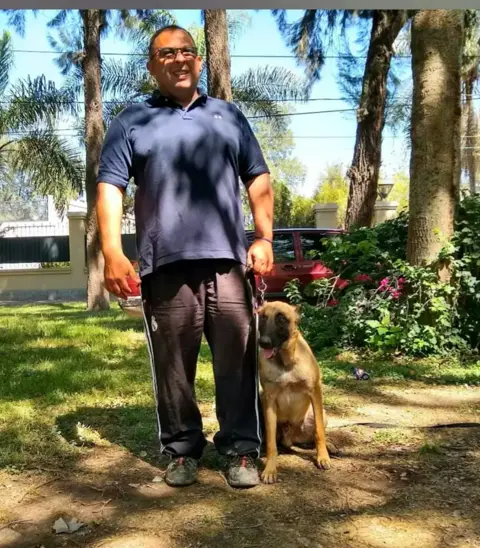
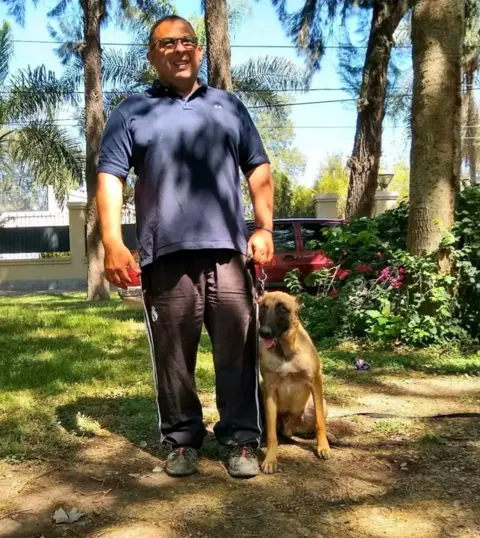
Portada sobre Claudio, perros de todas las razas y fotos nuevas
- Portada: su nombre como título, retrato con el Malinois y presentación en primera persona
  (pedido de Claudio, tomando como referencia vicenteferre.com).
- Escuela: nueva sección "Perros de todas las razas" con 8 fotos que mandó Claudio.
- Traslados: suma la foto del beagle en el auto.
- "Hola, soy Claudio" pasa a la foto de él con el cachorro (sin la franja gris de arriba).

diff --git a/index.html b/index.html
@@ -44,14 +44,14 @@
   <path d="M6 12.5V16a6 3 0 0 0 12 0v-3.5" /></symbol><symbol id="i-house" viewBox="0 0 24 24"><path d="M15 21v-8a1 1 0 0 0-1-1h-4a1 1 0 0 0-1 1v8" />
   <path d="M3 10a2 2 0 0 1 .709-1.528l7-5.999a2 2 0 0 1 2.582 0l7 5.999A2 2 0 0 1 21 10v9a2 2 0 0 1-2 2H5a2 2 0 0 1-2-2z" /></symbol><symbol id="i-instagram" viewBox="0 0 24 24"><rect width="20" height="20" x="2" y="2" rx="5" ry="5" />
   <path d="M16 11.37A4 4 0 1 1 12.63 8 4 4 0 0 1 16 11.37z" />
-  <line x1="17.5" x2="17.51" y1="6.5" y2="6.5" /></symbol><symbol id="i-layout-grid" viewBox="0 0 24 24"><rect width="7" height="7" x="3" y="3" rx="1" />
-  <rect width="7" height="7" x="14" y="3" rx="1" />
-  <rect width="7" height="7" x="14" y="14" rx="1" />
-  <rect width="7" height="7" x="3" y="14" rx="1" /></symbol><symbol id="i-map-pin" viewBox="0 0 24 24"><path d="M20 10c0 4.993-5.539 10.193-7.399 11.799a1 1 0 0 1-1.202 0C9.539 20.193 4 14.993 4 10a8 8 0 0 1 16 0" />
+  <line x1="17.5" x2="17.51" y1="6.5" y2="6.5" /></symbol><symbol id="i-map-pin" viewBox="0 0 24 24"><path d="M20 10c0 4.993-5.539 10.193-7.399 11.799a1 1 0 0 1-1.202 0C9.539 20.193 4 14.993 4 10a8 8 0 0 1 16 0" />
   <circle cx="12" cy="10" r="3" /></symbol><symbol id="i-menu" viewBox="0 0 24 24"><line x1="4" x2="20" y1="12" y2="12" />
   <line x1="4" x2="20" y1="6" y2="6" />
   <line x1="4" x2="20" y1="18" y2="18" /></symbol><symbol id="i-message-circle" viewBox="0 0 24 24"><path d="M7.9 20A9 9 0 1 0 4 16.1L2 22Z" /></symbol><symbol id="i-navigation" viewBox="0 0 24 24"><polygon points="3 11 22 2 13 21 11 13 3 11" /></symbol><symbol id="i-pause" viewBox="0 0 24 24"><rect x="14" y="4" width="4" height="16" rx="1" />
-  <rect x="6" y="4" width="4" height="16" rx="1" /></symbol><symbol id="i-phone" viewBox="0 0 24 24"><path d="M22 16.92v3a2 2 0 0 1-2.18 2 19.79 19.79 0 0 1-8.63-3.07 19.5 19.5 0 0 1-6-6 19.79 19.79 0 0 1-3.07-8.67A2 2 0 0 1 4.11 2h3a2 2 0 0 1 2 1.72 12.84 12.84 0 0 0 .7 2.81 2 2 0 0 1-.45 2.11L8.09 9.91a16 16 0 0 0 6 6l1.27-1.27a2 2 0 0 1 2.11-.45 12.84 12.84 0 0 0 2.81.7A2 2 0 0 1 22 16.92z" /></symbol><symbol id="i-shopping-bag" viewBox="0 0 24 24"><path d="M6 2 3 6v14a2 2 0 0 0 2 2h14a2 2 0 0 0 2-2V6l-3-4Z" />
+  <rect x="6" y="4" width="4" height="16" rx="1" /></symbol><symbol id="i-paw-print" viewBox="0 0 24 24"><circle cx="11" cy="4" r="2" />
+  <circle cx="18" cy="8" r="2" />
+  <circle cx="20" cy="16" r="2" />
+  <path d="M9 10a5 5 0 0 1 5 5v3.5a3.5 3.5 0 0 1-6.84 1.045Q6.52 17.48 4.46 16.84A3.5 3.5 0 0 1 5.5 10Z" /></symbol><symbol id="i-phone" viewBox="0 0 24 24"><path d="M22 16.92v3a2 2 0 0 1-2.18 2 19.79 19.79 0 0 1-8.63-3.07 19.5 19.5 0 0 1-6-6 19.79 19.79 0 0 1-3.07-8.67A2 2 0 0 1 4.11 2h3a2 2 0 0 1 2 1.72 12.84 12.84 0 0 0 .7 2.81 2 2 0 0 1-.45 2.11L8.09 9.91a16 16 0 0 0 6 6l1.27-1.27a2 2 0 0 1 2.11-.45 12.84 12.84 0 0 0 2.81.7A2 2 0 0 1 22 16.92z" /></symbol><symbol id="i-shopping-bag" viewBox="0 0 24 24"><path d="M6 2 3 6v14a2 2 0 0 0 2 2h14a2 2 0 0 0 2-2V6l-3-4Z" />
   <path d="M3 6h18" />
   <path d="M16 10a4 4 0 0 1-8 0" /></symbol><symbol id="i-snowflake" viewBox="0 0 24 24"><path d="m10 20-1.25-2.5L6 18" />
   <path d="M10 4 8.75 6.5 6 6" />
@@ -78,7 +78,7 @@
   <circle cx="7" cy="18" r="2" /></symbol><symbol id="i-video" viewBox="0 0 24 24"><path d="m16 13 5.223 3.482a.5.5 0 0 0 .777-.416V7.87a.5.5 0 0 0-.752-.432L16 10.5" />
   <rect x="2" y="6" width="14" height="12" rx="2" /></symbol><symbol id="i-x" viewBox="0 0 24 24"><path d="M18 6 6 18" />
   <path d="m6 6 12 12" /></symbol></defs></svg>
-<div class="aviso-maqueta">Vista previa para revisar con Claudio. Las fotos son de su Instagram.</div>
+<div class="aviso-maqueta">Vista previa para revisar con Claudio. Las fotos son suyas: de su Instagram y las que nos mandó.</div>
 <header class="barra"><div class="contenedor">
   <a class="marca" href="index.html" aria-label="Claudio Basualdo, inicio"><svg class="emb" aria-hidden="true"><use href="#emblema"/></svg><span><b>Claudio Basualdo</b><small>Servicios caninos integrales</small></span></a>
   <nav class="menu" id="menu" aria-label="Menú principal"><a href="adiestramiento-canino.html">Escuela</a><a href="guarderia-y-hotel-canino.html">Hotel y guardería</a><a href="peluqueria-canina.html">Spa</a><a href="traslado-de-mascotas.html">Traslados</a><a href="asesoria-canina-online.html">Asesoría</a><a href="index.html#claudio">Sobre Claudio</a><a href="index.html#contacto">Contacto</a></nav>
@@ -89,15 +89,16 @@
 
 <section class="portada" data-secuencia aria-label="Presentación">
   <div class="texto">
-    <p class="lugar">Claudio Basualdo, en Santiago del Estero desde hace más de 30 años</p>
-    <h1 class="verbos"><span>Cuidar.</span><span>Educar.</span><span>Acompañar.</span></h1>
-    <p class="bajada">Adiestramiento, educación y alojamiento para perros, con atención personalizada. Recibimos perros de toda la provincia y del norte del país, en un espacio cuidado y con trabajo responsable.</p>
+    <p class="lugar">Instructor de adiestramiento y educación canina en Santiago del Estero</p>
+    <h1 class="nombre">Claudio Basualdo</h1>
+    <p class="verbos"><span>Educar.</span> <span>Cuidar.</span> <span>Acompañar.</span></p>
+    <p class="bajada">Hace unos 30 años que educo perros de todas las razas y acompaño a sus familias. Hoy, junto a mi equipo, también los cuidamos en el hotel y la guardería, y los atendemos en el spa y en sus traslados.</p>
     <div class="acciones">
-      <a class="btn btn-oro" href="#servicios"><svg class="ic" aria-hidden="true"><use href="#i-layout-grid"/></svg>Ver los servicios</a>
-      <a class="btn btn-linea" href="https://wa.me/5493855854222?text=Hola%2C%20Claudio.%20Te%20escribo%20desde%20tu%20p%C3%A1gina." target="_blank" rel="noopener"><svg class="ic" aria-hidden="true"><use href="#i-message-circle"/></svg>Escribir por WhatsApp</a>
+      <a class="btn btn-oro" href="#claudio"><svg class="ic" aria-hidden="true"><use href="#i-paw-print"/></svg>Conocé mi historia</a>
+      <a class="btn btn-linea" href="https://wa.me/5493855854222?text=Hola%2C%20Claudio.%20Te%20escribo%20desde%20tu%20p%C3%A1gina." target="_blank" rel="noopener"><svg class="ic" aria-hidden="true"><use href="#i-message-circle"/></svg>Escribime por WhatsApp</a>
     </div>
   </div>
-  <div class="fotos"><img class="activa" src="img/guarderia-kiara-claudio-960.webp" srcset="img/guarderia-kiara-claudio-480.webp 480w, img/guarderia-kiara-claudio-960.webp 960w, img/guarderia-kiara-claudio-1600.webp 1600w" sizes="100vw" alt="Claudio Basualdo con Kiara en el predio" loading="eager" decoding="async" fetchpriority="high" style="object-position:center 45%"><img data-src="img/adiestramiento-simba-960.webp" data-srcset="img/adiestramiento-simba-480.webp 480w, img/adiestramiento-simba-960.webp 960w, img/adiestramiento-simba-1600.webp 1600w" sizes="100vw" alt="Claudio entrenando a Simba" decoding="async" style="object-position:center 30%"><img data-src="img/traslado-camioneta-960.webp" data-srcset="img/traslado-camioneta-480.webp 480w, img/traslado-camioneta-960.webp 960w, img/traslado-camioneta-1600.webp 1600w" sizes="100vw" alt="Un perro listo para su traslado" decoding="async" style="object-position:center 35%">
+  <div class="fotos"><img class="activa" src="img/claudio-basualdo-malinois-960.webp" srcset="img/claudio-basualdo-malinois-480.webp 480w, img/claudio-basualdo-malinois-960.webp 960w, img/claudio-basualdo-malinois-1600.webp 1600w" sizes="(max-width: 980px) 100vw, 50vw" alt="Claudio Basualdo, instructor de adiestramiento y educación canina, con un Malinois" loading="eager" decoding="async" fetchpriority="high" style="object-position:center 40%">
     <button class="pausa" type="button" aria-label="Detener la animación" hidden><svg class="ic" aria-hidden="true"><use href="#i-pause"/></svg></button>
   </div>
 </section>
@@ -111,7 +112,7 @@
 
 <section class="seccion" id="servicios"><div class="contenedor">
   <div class="cabeza-sec"><h2>Todo lo que tu perro necesita, en un solo lugar</h2>
-    <p>Cada perro tiene sus propias necesidades. Comprenderlo es el primer paso para cuidarlo y educarlo.</p></div>
+    <p>Adiestramiento, educación y alojamiento con atención personalizada. Recibimos perros de toda la provincia y del norte del país, en un espacio cuidado y con trabajo responsable.</p></div>
   <div class="mosaico"><a class="pieza p-escuela" href="adiestramiento-canino.html">
       <img src="img/adiestramiento-simba-960.webp" srcset="img/adiestramiento-simba-480.webp 480w, img/adiestramiento-simba-960.webp 960w, img/adiestramiento-simba-1600.webp 1600w" sizes="(max-width: 600px) 100vw, 50vw" alt="" loading="lazy" decoding="async" style="object-position:center 25%;view-transition-name:foto-adiestramiento-canino">
       <div class="tx"><h3><svg class="ic" aria-hidden="true"><use href="#i-graduation-cap"/></svg>Escuela canina</h3><p>Educación, adiestramiento y comportamiento. Trabajamos junto a la familia.</p></div></a><a class="pieza p-guarderia" href="guarderia-y-hotel-canino.html">
@@ -129,7 +130,7 @@
 
 <!-- Sección pedida por Claudio (16/11), con su texto apenas retocado: en primera persona y sin sonar ostentoso. -->
 <section class="seccion suave" id="claudio"><div class="contenedor dos sobre-claudio">
-  <figure class="retrato"><img src="img/claudio-basualdo-malinois-960.webp" srcset="img/claudio-basualdo-malinois-480.webp 480w, img/claudio-basualdo-malinois-960.webp 960w" sizes="(max-width: 980px) 100vw, 560px" alt="Claudio Basualdo con uno de sus perros" loading="lazy" decoding="async" style="object-position:center"></figure>
+  <figure class="retrato"><img src="img/claudio-basualdo-960.webp" srcset="img/claudio-basualdo-480.webp 480w, img/claudio-basualdo-960.webp 960w" sizes="(max-width: 980px) 100vw, 560px" alt="Claudio Basualdo con uno de sus alumnos" loading="lazy" decoding="async" style="object-position:center 30%"></figure>
   <div class="texto-largo">
     <h2>Hola, soy Claudio</h2>
     <p class="oficio">Instructor de adiestramiento y educación canina. Trabajo con perros de todas las razas.</p>

diff --git a/adiestramiento-canino.html b/adiestramiento-canino.html
@@ -51,7 +51,7 @@
   <circle cx="7" cy="18" r="2" /></symbol><symbol id="i-video" viewBox="0 0 24 24"><path d="m16 13 5.223 3.482a.5.5 0 0 0 .777-.416V7.87a.5.5 0 0 0-.752-.432L16 10.5" />
   <rect x="2" y="6" width="14" height="12" rx="2" /></symbol><symbol id="i-x" viewBox="0 0 24 24"><path d="M18 6 6 18" />
   <path d="m6 6 12 12" /></symbol></defs></svg>
-<div class="aviso-maqueta">Vista previa para revisar con Claudio. Las fotos son de su Instagram.</div>
+<div class="aviso-maqueta">Vista previa para revisar con Claudio. Las fotos son suyas: de su Instagram y las que nos mandó.</div>
 <header class="barra"><div class="contenedor">
   <a class="marca" href="index.html" aria-label="Claudio Basualdo, inicio"><svg class="emb" aria-hidden="true"><use href="#emblema"/></svg><span><b>Claudio Basualdo</b><small>Servicios caninos integrales</small></span></a>
   <nav class="menu" id="menu" aria-label="Menú principal"><a href="adiestramiento-canino.html" aria-current="page">Escuela</a><a href="guarderia-y-hotel-canino.html">Hotel y guardería</a><a href="peluqueria-canina.html">Spa</a><a href="traslado-de-mascotas.html">Traslados</a><a href="asesoria-canina-online.html">Asesoría</a><a href="index.html#claudio">Sobre Claudio</a><a href="index.html#contacto">Contacto</a></nav>
@@ -96,6 +96,12 @@
     <ol class="etapas"><li class="etapa"><span class="n" aria-hidden="true">1</span><span class="tramo" aria-hidden="true"></span><h3>Nos conocemos</h3><p>Vemos a tu perro, escuchamos lo que te preocupa y buscamos qué origina cada conducta. Con eso armamos el plan.</p></li><li class="etapa"><span class="n" aria-hidden="true">2</span><span class="tramo" aria-hidden="true"></span><h3>Obediencia básica</h3><p>Sentado, quieto, ven y junto, con juegos de obediencia. Tu perro aprende a escucharte.</p></li><li class="etapa"><span class="n" aria-hidden="true">3</span><span class="tramo" aria-hidden="true"></span><h3>Manejo con correa</h3><p>Paseos tranquilos, sin tirones, en la vereda y en la calle.</p></li><li class="etapa"><span class="n" aria-hidden="true">4</span><span class="tramo" aria-hidden="true"></span><h3>Sociabilización</h3><p>Convivir sin problemas con otros perros y con las personas.</p></li><li class="etapa"><span class="n" aria-hidden="true">5</span><span class="tramo" aria-hidden="true"></span><h3>Las malas costumbres</h3><p>Trabajamos lo que más te preocupa: ansiedad, destrozos, ladridos o reactividad.</p></li><li class="etapa"><span class="n" aria-hidden="true">6</span><span class="tramo" aria-hidden="true"></span><h3>Curso amo-can</h3><p>La familia aprende los métodos para sostener lo aprendido. Te acompañamos en cada etapa.</p></li></ol>
     <p class="nota-maqueta">Etapas propuestas con lo que Claudio contó en sus entrevistas. Las ajustamos con él.</p>
   </div>
+</div></section>
+
+<section class="seccion suave"><div class="contenedor">
+  <div class="cabeza-sec"><h2>Perros de todas las razas</h2><p>Chicos o grandes, cachorros o adultos: cada uno aprende a su ritmo. Estos son algunos de los perros que pasaron por la escuela.</p></div>
+  <div class="alumnos"><figure><img src="img/alumno-doberman-960.webp" srcset="img/alumno-doberman-480.webp 480w, img/alumno-doberman-960.webp 960w" sizes="(max-width: 600px) 50vw, 25vw" alt="Dóberman" loading="lazy" decoding="async" style="object-position:center 30%"><figcaption>Dóberman</figcaption></figure><figure><img src="img/alumno-pastor-aleman-cerca-960.webp" srcset="img/alumno-pastor-aleman-cerca-480.webp 480w, img/alumno-pastor-aleman-cerca-960.webp 960w" sizes="(max-width: 600px) 50vw, 25vw" alt="Pastor alemán" loading="lazy" decoding="async" style="object-position:center 45%"><figcaption>Pastor alemán</figcaption></figure><figure><img src="img/alumno-dogo-argentino-960.webp" srcset="img/alumno-dogo-argentino-480.webp 480w, img/alumno-dogo-argentino-960.webp 960w" sizes="(max-width: 600px) 50vw, 25vw" alt="Dogo argentino" loading="lazy" decoding="async" style="object-position:center 12%"><figcaption>Dogo argentino</figcaption></figure><figure><img src="img/alumno-border-collie-960.webp" srcset="img/alumno-border-collie-480.webp 480w, img/alumno-border-collie-960.webp 960w" sizes="(max-width: 600px) 50vw, 25vw" alt="Border collie" loading="lazy" decoding="async" style="object-position:center 40%"><figcaption>Border collie</figcaption></figure><figure><img src="img/alumno-cane-corso-960.webp" srcset="img/alumno-cane-corso-480.webp 480w, img/alumno-cane-corso-960.webp 960w" sizes="(max-width: 600px) 50vw, 25vw" alt="Cane corso" loading="lazy" decoding="async" style="object-position:center 40%"><figcaption>Cane corso</figcaption></figure><figure><img src="img/alumno-maltes-960.webp" srcset="img/alumno-maltes-480.webp 480w, img/alumno-maltes-960.webp 960w" sizes="(max-width: 600px) 50vw, 25vw" alt="Maltés" loading="lazy" decoding="async" style="object-position:center 60%"><figcaption>Maltés</figcaption></figure><figure><img src="img/alumno-doberman-pareja-960.webp" srcset="img/alumno-doberman-pareja-480.webp 480w, img/alumno-doberman-pareja-960.webp 960w" sizes="(max-width: 600px) 50vw, 25vw" alt="Dóbermans" loading="lazy" decoding="async" style="object-position:center 45%"><figcaption>Dóbermans</figcaption></figure><figure><img src="img/alumno-pastor-aleman-960.webp" srcset="img/alumno-pastor-aleman-480.webp 480w, img/alumno-pastor-aleman-960.webp 960w" sizes="(max-width: 600px) 50vw, 25vw" alt="Pastor alemán" loading="lazy" decoding="async" style="object-position:center 50%"><figcaption>Pastor alemán</figcaption></figure></div>
+  <p class="nota-maqueta">Fotos que mandó Claudio. Las razas las confirmamos con él.</p>
 </div></section>
 <section class="seccion monte" id="consultar"><div class="contenedor consulta">
   <div class="lado">

diff --git a/traslado-de-mascotas.html b/traslado-de-mascotas.html
@@ -49,7 +49,7 @@
   <path d="M16 10a4 4 0 0 1-8 0" /></symbol><symbol id="i-video" viewBox="0 0 24 24"><path d="m16 13 5.223 3.482a.5.5 0 0 0 .777-.416V7.87a.5.5 0 0 0-.752-.432L16 10.5" />
   <rect x="2" y="6" width="14" height="12" rx="2" /></symbol><symbol id="i-x" viewBox="0 0 24 24"><path d="M18 6 6 18" />
   <path d="m6 6 12 12" /></symbol></defs></svg>
-<div class="aviso-maqueta">Vista previa para revisar con Claudio. Las fotos son de su Instagram.</div>
+<div class="aviso-maqueta">Vista previa para revisar con Claudio. Las fotos son suyas: de su Instagram y las que nos mandó.</div>
 <header class="barra"><div class="contenedor">
   <a class="marca" href="index.html" aria-label="Claudio Basualdo, inicio"><svg class="emb" aria-hidden="true"><use href="#emblema"/></svg><span><b>Claudio Basualdo</b><small>Servicios caninos integrales</small></span></a>
   <nav class="menu" id="menu" aria-label="Menú principal"><a href="adiestramiento-canino.html">Escuela</a><a href="guarderia-y-hotel-canino.html">Hotel y guardería</a><a href="peluqueria-canina.html">Spa</a><a href="traslado-de-mascotas.html" aria-current="page">Traslados</a><a href="asesoria-canina-online.html">Asesoría</a><a href="index.html#claudio">Sobre Claudio</a><a href="index.html#contacto">Contacto</a></nav>
@@ -81,8 +81,9 @@
     <h2>Cada viaje se organiza a medida</h2>
     <div><p>Como viaja un solo perro por vez, cada traslado se organiza según el destino y la fecha. Por eso, antes de confirmarte, revisamos la disponibilidad.</p><p>Contanos origen, destino, fecha y cómo es tu perro, y te respondemos por WhatsApp con la disponibilidad y el presupuesto.</p></div>
   </div>
-  <div class="tira" style="max-width:852px"><figure style="--ar:1.000"><img src="img/traslado-jagger-960.webp" srcset="img/traslado-jagger-480.webp 480w, img/traslado-jagger-960.webp 960w" sizes="(max-width: 600px) 70vw, 420px" alt="Traslado de mascotas · Claudio Basualdo" loading="lazy" decoding="async" style="object-position:center"></figure><figure style="--ar:1.000"><img src="img/guarderia-jagger-960.webp" srcset="img/guarderia-jagger-480.webp 480w, img/guarderia-jagger-960.webp 960w" sizes="(max-width: 600px) 70vw, 420px" alt="Traslado de mascotas · Claudio Basualdo" loading="lazy" decoding="async" style="object-position:center"></figure></div>
+  <div class="tira" style="max-width:1060px"><figure style="--ar:0.466"><img src="img/traslado-beagle-960.webp" srcset="img/traslado-beagle-480.webp 480w, img/traslado-beagle-960.webp 960w" sizes="(max-width: 600px) 70vw, 420px" alt="Traslado de mascotas · Claudio Basualdo" loading="lazy" decoding="async" style="object-position:center"></figure><figure style="--ar:1.000"><img src="img/traslado-jagger-960.webp" srcset="img/traslado-jagger-480.webp 480w, img/traslado-jagger-960.webp 960w" sizes="(max-width: 600px) 70vw, 420px" alt="Traslado de mascotas · Claudio Basualdo" loading="lazy" decoding="async" style="object-position:center"></figure><figure style="--ar:1.000"><img src="img/guarderia-jagger-960.webp" srcset="img/guarderia-jagger-480.webp 480w, img/guarderia-jagger-960.webp 960w" sizes="(max-width: 600px) 70vw, 420px" alt="Traslado de mascotas · Claudio Basualdo" loading="lazy" decoding="async" style="object-position:center"></figure></div>
 </div></section>
+
 
 <section class="seccion monte" id="consultar"><div class="contenedor consulta">
   <div class="lado">

diff --git a/guarderia-y-hotel-canino.html b/guarderia-y-hotel-canino.html
@@ -52,7 +52,7 @@
   <circle cx="7" cy="18" r="2" /></symbol><symbol id="i-video" viewBox="0 0 24 24"><path d="m16 13 5.223 3.482a.5.5 0 0 0 .777-.416V7.87a.5.5 0 0 0-.752-.432L16 10.5" />
   <rect x="2" y="6" width="14" height="12" rx="2" /></symbol><symbol id="i-x" viewBox="0 0 24 24"><path d="M18 6 6 18" />
   <path d="m6 6 12 12" /></symbol></defs></svg>
-<div class="aviso-maqueta">Vista previa para revisar con Claudio. Las fotos son de su Instagram.</div>
+<div class="aviso-maqueta">Vista previa para revisar con Claudio. Las fotos son suyas: de su Instagram y las que nos mandó.</div>
 <header class="barra"><div class="contenedor">
   <a class="marca" href="index.html" aria-label="Claudio Basualdo, inicio"><svg class="emb" aria-hidden="true"><use href="#emblema"/></svg><span><b>Claudio Basualdo</b><small>Servicios caninos integrales</small></span></a>
   <nav class="menu" id="menu" aria-label="Menú principal"><a href="adiestramiento-canino.html">Escuela</a><a href="guarderia-y-hotel-canino.html" aria-current="page">Hotel y guardería</a><a href="peluqueria-canina.html">Spa</a><a href="traslado-de-mascotas.html">Traslados</a><a href="asesoria-canina-online.html">Asesoría</a><a href="index.html#claudio">Sobre Claudio</a><a href="index.html#contacto">Contacto</a></nav>
@@ -86,6 +86,7 @@
   </div>
   <div class="tira" style="max-width:1284px"><figure style="--ar:1.000"><img src="img/guarderia-kiara-960.webp" srcset="img/guarderia-kiara-480.webp 480w, img/guarderia-kiara-960.webp 960w" sizes="(max-width: 600px) 70vw, 420px" alt="Hotel canino y guardería · Claudio Basualdo" loading="lazy" decoding="async" style="object-position:center"></figure><figure style="--ar:1.000"><img src="img/guarderia-jagger-960.webp" srcset="img/guarderia-jagger-480.webp 480w, img/guarderia-jagger-960.webp 960w" sizes="(max-width: 600px) 70vw, 420px" alt="Hotel canino y guardería · Claudio Basualdo" loading="lazy" decoding="async" style="object-position:center"></figure><figure style="--ar:1.000"><img src="img/predio-atardecer-960.webp" srcset="img/predio-atardecer-480.webp 480w, img/predio-atardecer-960.webp 960w" sizes="(max-width: 600px) 70vw, 420px" alt="Hotel canino y guardería · Claudio Basualdo" loading="lazy" decoding="async" style="object-position:center"></figure></div>
 </div></section>
+
 
 <section class="seccion monte" id="consultar"><div class="contenedor consulta">
   <div class="lado">

diff --git a/css/estilos.css b/css/estilos.css
@@ -61,9 +61,11 @@ p,li{text-wrap:pretty}
 .portada .fotos img.zoom{transform:scale(1.09)}
 .portada .fotos:after{content:'';position:absolute;inset:0;background:linear-gradient(90deg,var(--carbon) 0%,rgba(20,18,14,0) 5%);pointer-events:none}
 .lugar{font-size:16px;color:var(--oro-claro);font-weight:600}
-.verbos{color:#fff;font-size:clamp(52px,6vw,92px);line-height:.96;letter-spacing:-.01em;margin:14px 0 26px}
-@media (max-width:980px){.verbos{font-size:clamp(50px,13vw,92px)}}
-.verbos span{display:block;transition:opacity .8s ease}
+/* 17/11: el primer pantallazo presenta a Claudio (nombre + retrato); los verbos quedan como lema */
+.nombre{color:#fff;font-size:clamp(52px,6.2vw,96px);line-height:.98;letter-spacing:-.01em;margin:14px 0 16px}
+@media (max-width:980px){.nombre{font-size:clamp(46px,12.5vw,92px)}}
+.verbos{font-family:var(--titulo);font-weight:700;color:var(--oro-claro);font-size:clamp(24px,2.3vw,32px);line-height:1.2;margin:0 0 22px}
+.verbos span{transition:opacity .8s ease}
 .portada[data-paso] .verbos span{opacity:.32}
 .portada[data-paso="1"] .verbos span:nth-child(1),
 .portada[data-paso="2"] .verbos span:nth-child(2),
@@ -156,6 +158,10 @@ p,li{text-wrap:pretty}
 .galeria figure{border-radius:12px;overflow:hidden;background:#DCD7CB}
 .galeria img{width:100%;height:100%;object-fit:cover}
 .galeria .alta{grid-row:span 2}
+.alumnos{display:grid;grid-template-columns:repeat(4,minmax(0,1fr));gap:12px}
+.alumnos figure{position:relative;aspect-ratio:4/5;border-radius:12px;overflow:hidden;background:#DCD7CB;margin:0}
+.alumnos img{width:100%;height:100%;object-fit:cover}
+.alumnos figcaption{position:absolute;left:10px;bottom:10px;background:rgba(20,18,14,.74);color:#fff;font-size:14px;font-weight:600;padding:5px 11px;border-radius:999px}
 .galeria .ancha{grid-column:span 2}
 
 /* familias */
@@ -324,6 +330,7 @@ p,li{text-wrap:pretty}
   .sobre-claudio .retrato{position:static;aspect-ratio:4/3}
   .familias{grid-template-columns:repeat(2,1fr)}
   .galeria{grid-template-columns:repeat(2,1fr);grid-auto-rows:180px}
+  .alumnos{grid-template-columns:repeat(2,minmax(0,1fr))}
   .pasos{grid-template-columns:1fr}
   .pasos li + li{padding-left:0;border-left:0;border-top:1px solid var(--linea)}
   .otros{grid-template-columns:1fr}

diff --git a/peluqueria-canina.html b/peluqueria-canina.html
@@ -49,7 +49,7 @@
   <circle cx="7" cy="18" r="2" /></symbol><symbol id="i-video" viewBox="0 0 24 24"><path d="m16 13 5.223 3.482a.5.5 0 0 0 .777-.416V7.87a.5.5 0 0 0-.752-.432L16 10.5" />
   <rect x="2" y="6" width="14" height="12" rx="2" /></symbol><symbol id="i-x" viewBox="0 0 24 24"><path d="M18 6 6 18" />
   <path d="m6 6 12 12" /></symbol></defs></svg>
-<div class="aviso-maqueta">Vista previa para revisar con Claudio. Las fotos son de su Instagram.</div>
+<div class="aviso-maqueta">Vista previa para revisar con Claudio. Las fotos son suyas: de su Instagram y las que nos mandó.</div>
 <header class="barra"><div class="contenedor">
   <a class="marca" href="index.html" aria-label="Claudio Basualdo, inicio"><svg class="emb" aria-hidden="true"><use href="#emblema"/></svg><span><b>Claudio Basualdo</b><small>Servicios caninos integrales</small></span></a>
   <nav class="menu" id="menu" aria-label="Menú principal"><a href="adiestramiento-canino.html">Escuela</a><a href="guarderia-y-hotel-canino.html">Hotel y guardería</a><a href="peluqueria-canina.html" aria-current="page">Spa</a><a href="traslado-de-mascotas.html">Traslados</a><a href="asesoria-canina-online.html">Asesoría</a><a href="index.html#claudio">Sobre Claudio</a><a href="index.html#contacto">Contacto</a></nav>
@@ -83,6 +83,7 @@
   </div>
   
 </div></section>
+
 
 <section class="seccion monte" id="consultar"><div class="contenedor consulta">
   <div class="lado">

diff --git a/transportadoras-y-accesorios.html b/transportadoras-y-accesorios.html
@@ -51,7 +51,7 @@
   <circle cx="7" cy="18" r="2" /></symbol><symbol id="i-video" viewBox="0 0 24 24"><path d="m16 13 5.223 3.482a.5.5 0 0 0 .777-.416V7.87a.5.5 0 0 0-.752-.432L16 10.5" />
   <rect x="2" y="6" width="14" height="12" rx="2" /></symbol><symbol id="i-x" viewBox="0 0 24 24"><path d="M18 6 6 18" />
   <path d="m6 6 12 12" /></symbol></defs></svg>
-<div class="aviso-maqueta">Vista previa para revisar con Claudio. Las fotos son de su Instagram.</div>
+<div class="aviso-maqueta">Vista previa para revisar con Claudio. Las fotos son suyas: de su Instagram y las que nos mandó.</div>
 <header class="barra"><div class="contenedor">
   <a class="marca" href="index.html" aria-label="Claudio Basualdo, inicio"><svg class="emb" aria-hidden="true"><use href="#emblema"/></svg><span><b>Claudio Basualdo</b><small>Servicios caninos integrales</small></span></a>
   <nav class="menu" id="menu" aria-label="Menú principal"><a href="adiestramiento-canino.html">Escuela</a><a href="guarderia-y-hotel-canino.html">Hotel y guardería</a><a href="peluqueria-canina.html">Spa</a><a href="traslado-de-mascotas.html">Traslados</a><a href="asesoria-canina-online.html">Asesoría</a><a href="index.html#claudio">Sobre Claudio</a><a href="index.html#contacto">Contacto</a></nav>
@@ -85,6 +85,7 @@
   </div>
   
 </div></section>
+
 
 <section class="seccion monte" id="consultar"><div class="contenedor consulta">
   <div class="lado">

diff --git a/asesoria-canina-online.html b/asesoria-canina-online.html
@@ -52,7 +52,7 @@
   <circle cx="17" cy="18" r="2" />
   <circle cx="7" cy="18" r="2" /></symbol><symbol id="i-x" viewBox="0 0 24 24"><path d="M18 6 6 18" />
   <path d="m6 6 12 12" /></symbol></defs></svg>
-<div class="aviso-maqueta">Vista previa para revisar con Claudio. Las fotos son de su Instagram.</div>
+<div class="aviso-maqueta">Vista previa para revisar con Claudio. Las fotos son suyas: de su Instagram y las que nos mandó.</div>
 <header class="barra"><div class="contenedor">
   <a class="marca" href="index.html" aria-label="Claudio Basualdo, inicio"><svg class="emb" aria-hidden="true"><use href="#emblema"/></svg><span><b>Claudio Basualdo</b><small>Servicios caninos integrales</small></span></a>
   <nav class="menu" id="menu" aria-label="Menú principal"><a href="adiestramiento-canino.html">Escuela</a><a href="guarderia-y-hotel-canino.html">Hotel y guardería</a><a href="peluqueria-canina.html">Spa</a><a href="traslado-de-mascotas.html">Traslados</a><a href="asesoria-canina-online.html" aria-current="page">Asesoría</a><a href="index.html#claudio">Sobre Claudio</a><a href="index.html#contacto">Contacto</a></nav>
@@ -86,6 +86,7 @@
   </div>
   
 </div></section>
+
 
 <section class="seccion monte" id="consultar"><div class="contenedor consulta">
   <div class="lado">

diff --git a/js/sitio.js b/js/sitio.js
@@ -12,7 +12,8 @@ boton?.addEventListener('click', () => {
   boton.querySelector('use').setAttribute('href', abierto ? '#i-x' : '#i-menu')
 })
 
-// ---- portada: tres verbos, tres fotos, una sola vez (≈12 s) y con pausa
+// ---- portada: tres verbos que se encienden de a uno, una sola vez (≈12 s) y con pausa.
+// Desde el 17/11 hay un solo retrato de Claudio: la foto queda fija y solo hace un zoom lento.
 const portada = document.querySelector('.portada[data-secuencia]')
 if (portada && !reducir) {
   const fotos = [...portada.querySelectorAll('.fotos img')]
@@ -23,7 +24,7 @@ if (portada && !reducir) {
   const mostrar = n => {
     portada.dataset.paso = n
     fotos.forEach((img, i) => {
-      const activa = i === n - 1
+      const activa = i === Math.min(n, fotos.length) - 1
       img.classList.toggle('activa', activa)
       if (activa) requestAnimationFrame(() => img.classList.add('zoom'))
       else setTimeout(() => img.classList.remove('zoom'), 1400)
